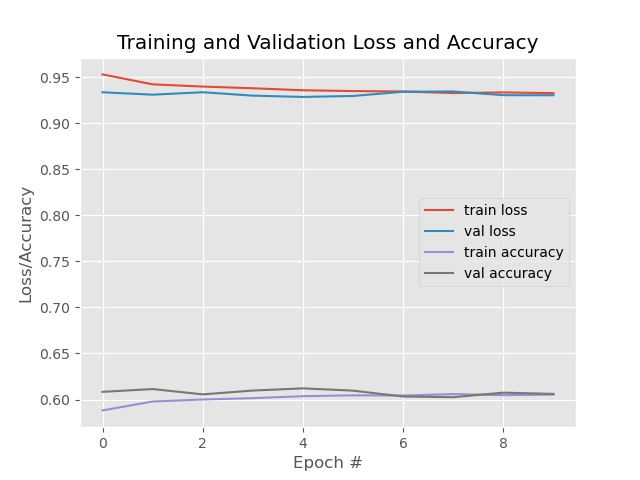
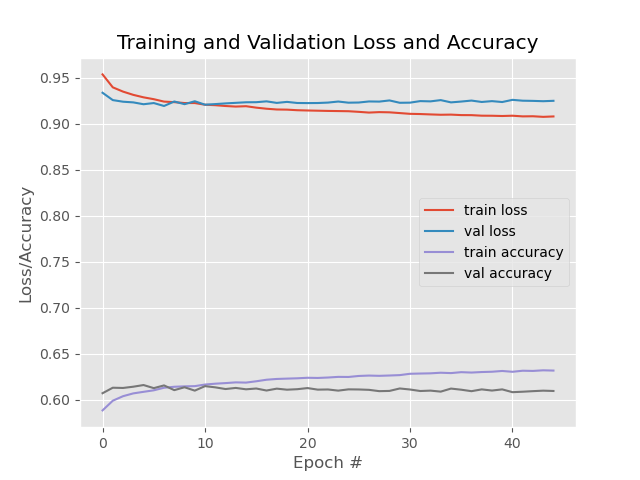
train.py changes

diff --git a/train.py b/train.py
@@ -9,6 +9,7 @@ import numpy as np
 import matplotlib.pyplot as plt
 import argparse
 from torch.utils.data import DataLoader
+from sklearn.utils import class_weight
 
 def prep_data(path):
     import json
@@ -118,21 +119,23 @@ def main():
     X_train,y_train = prep_data('data/train.npy')
     X_val, y_val = prep_data('data/val.npy')
     
+
+    
     input_size = len(X_train[0,:])
-    output_layer1= 32
-    output_layer2 = 16
+    output_layer1= 128
+    output_layer2 = 64
 
     model = nn.Sequential(nn.Linear(input_size,output_layer1),
                             nn.ReLU(),
                             nn.BatchNorm1d(num_features=output_layer1),
                             nn.Dropout(0.5),
 
-                            # nn.Linear(output_layer1,output_layer2),
-                            # nn.ReLU(),
-                            # nn.BatchNorm1d(num_features=output_layer2),
-                            # nn.Dropout(0.5),
+                            nn.Linear(output_layer1,output_layer2),
+                            nn.ReLU(),
+                            nn.BatchNorm1d(num_features=output_layer2),
+                            nn.Dropout(0.5),
 
-                            nn.Linear(output_layer1,3),
+                            nn.Linear(output_layer2,3),
                             nn.Softmax(dim = 1))
     
 
